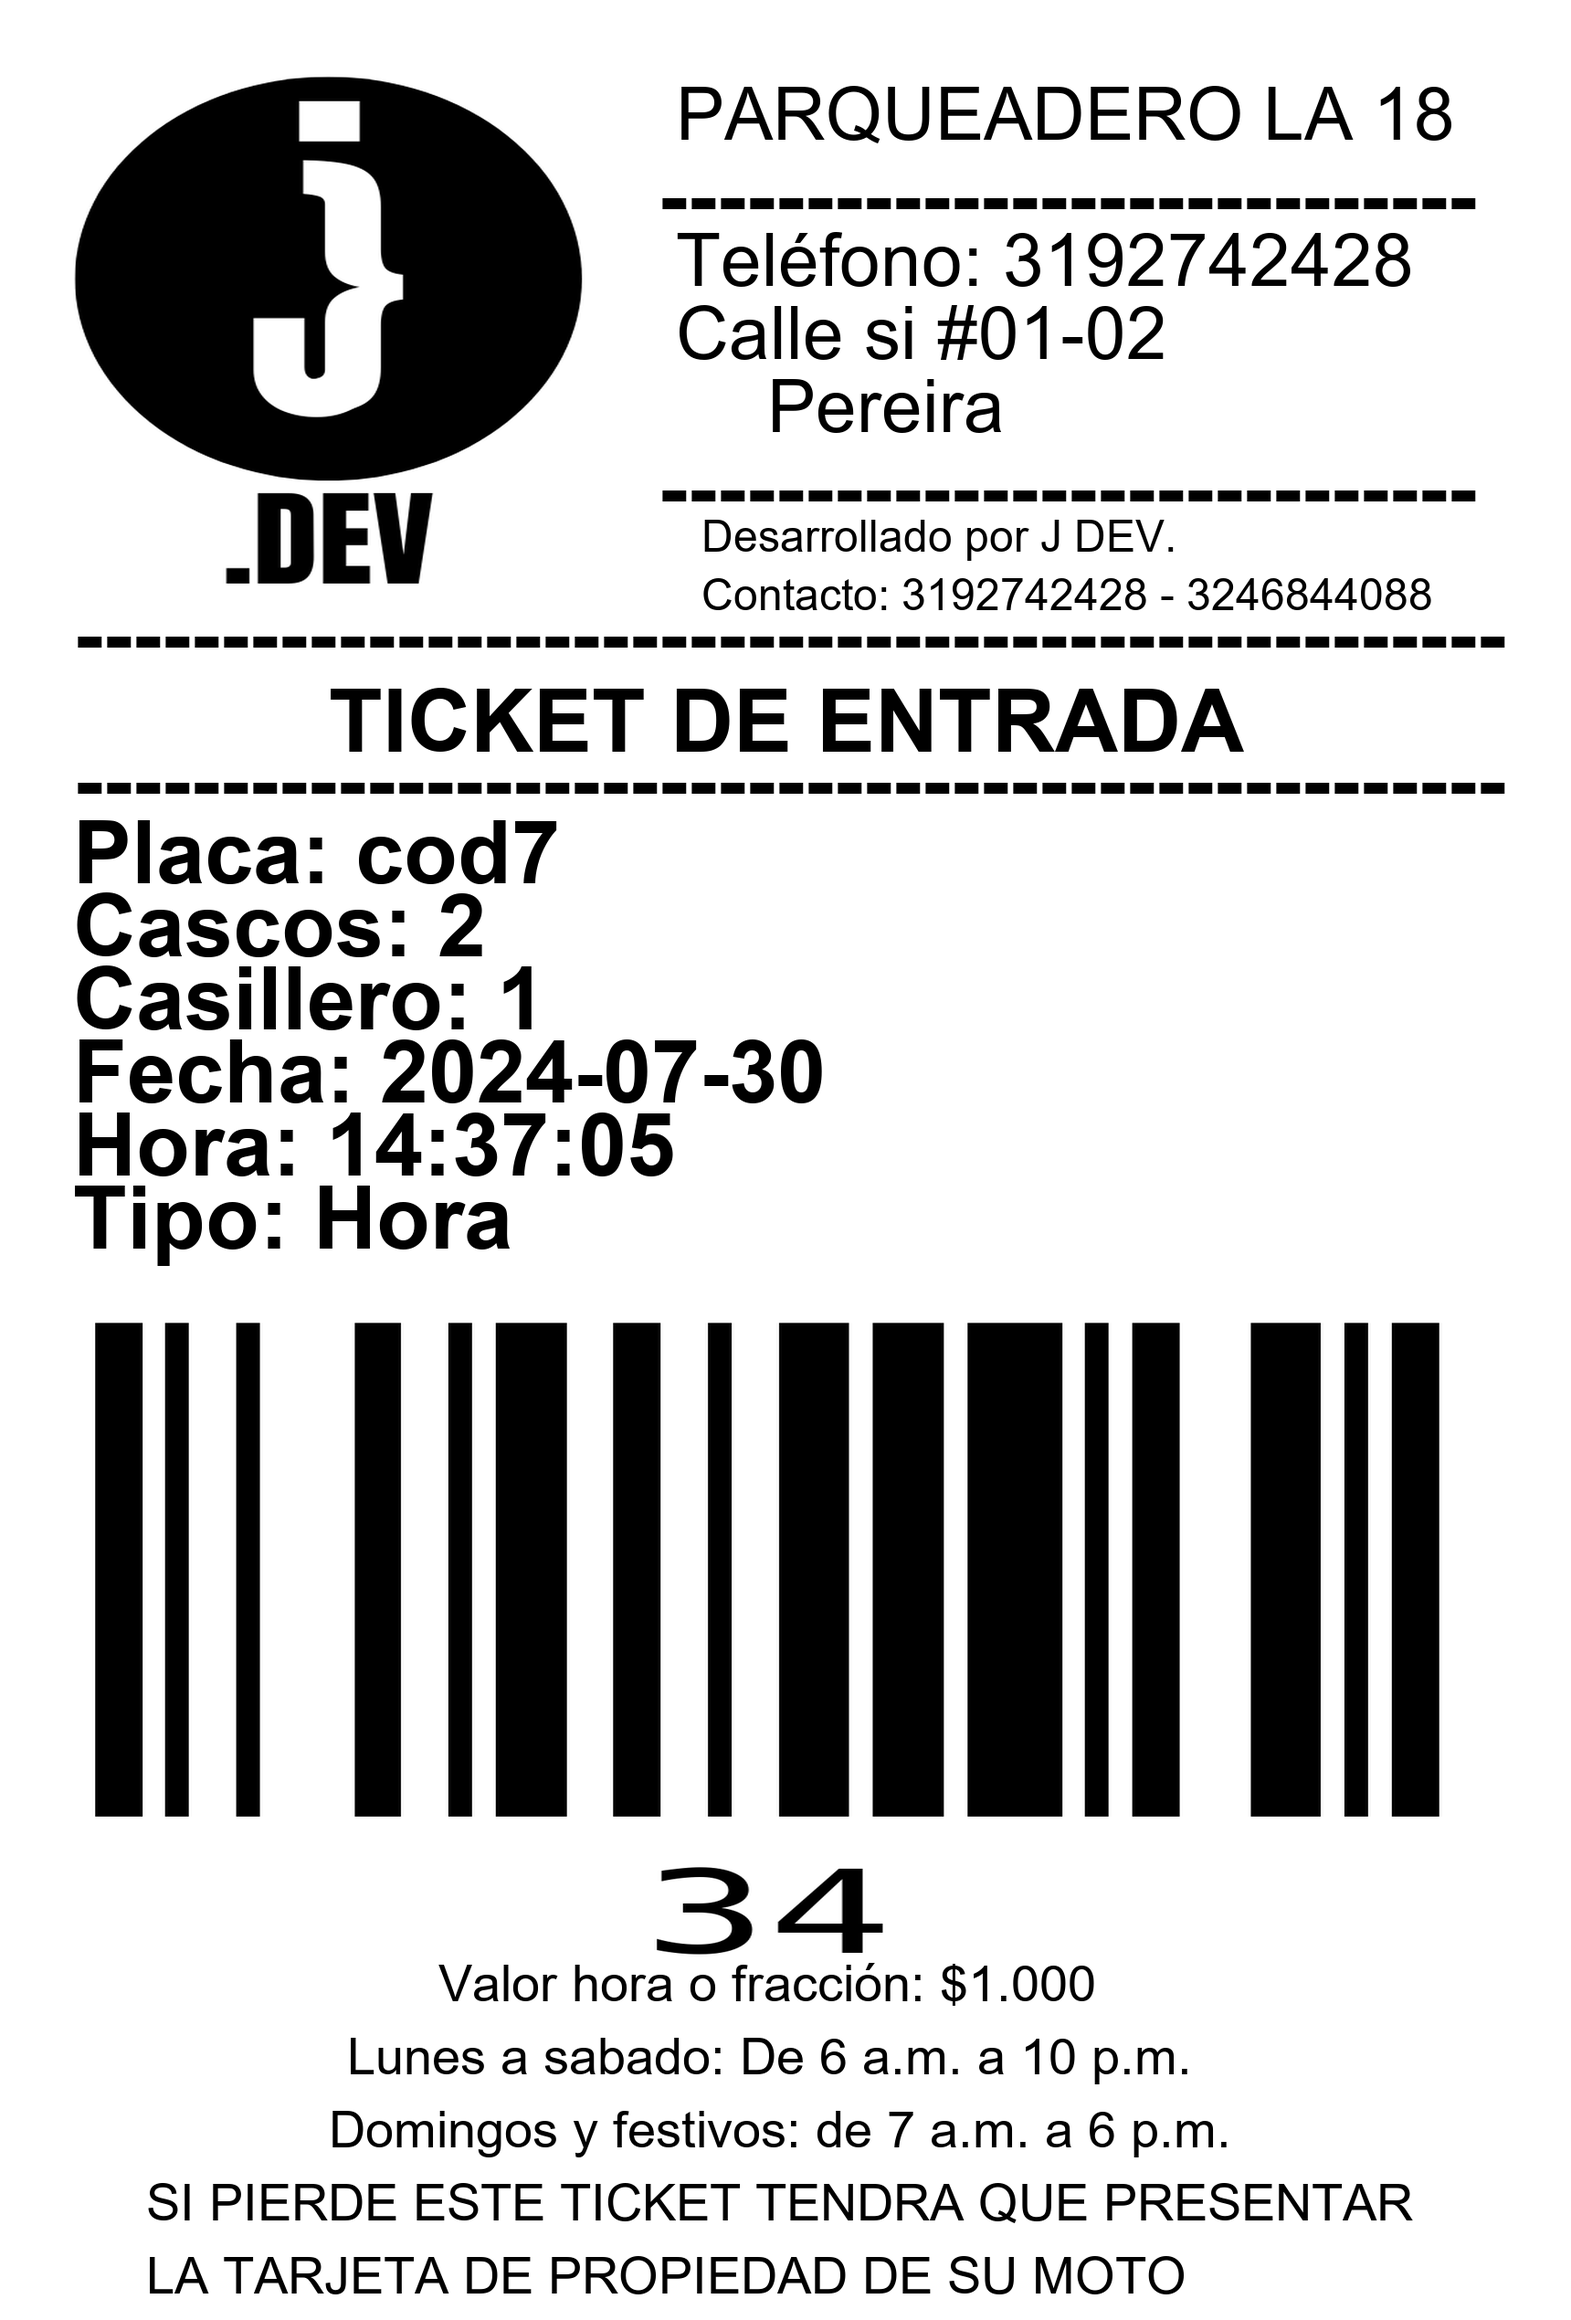
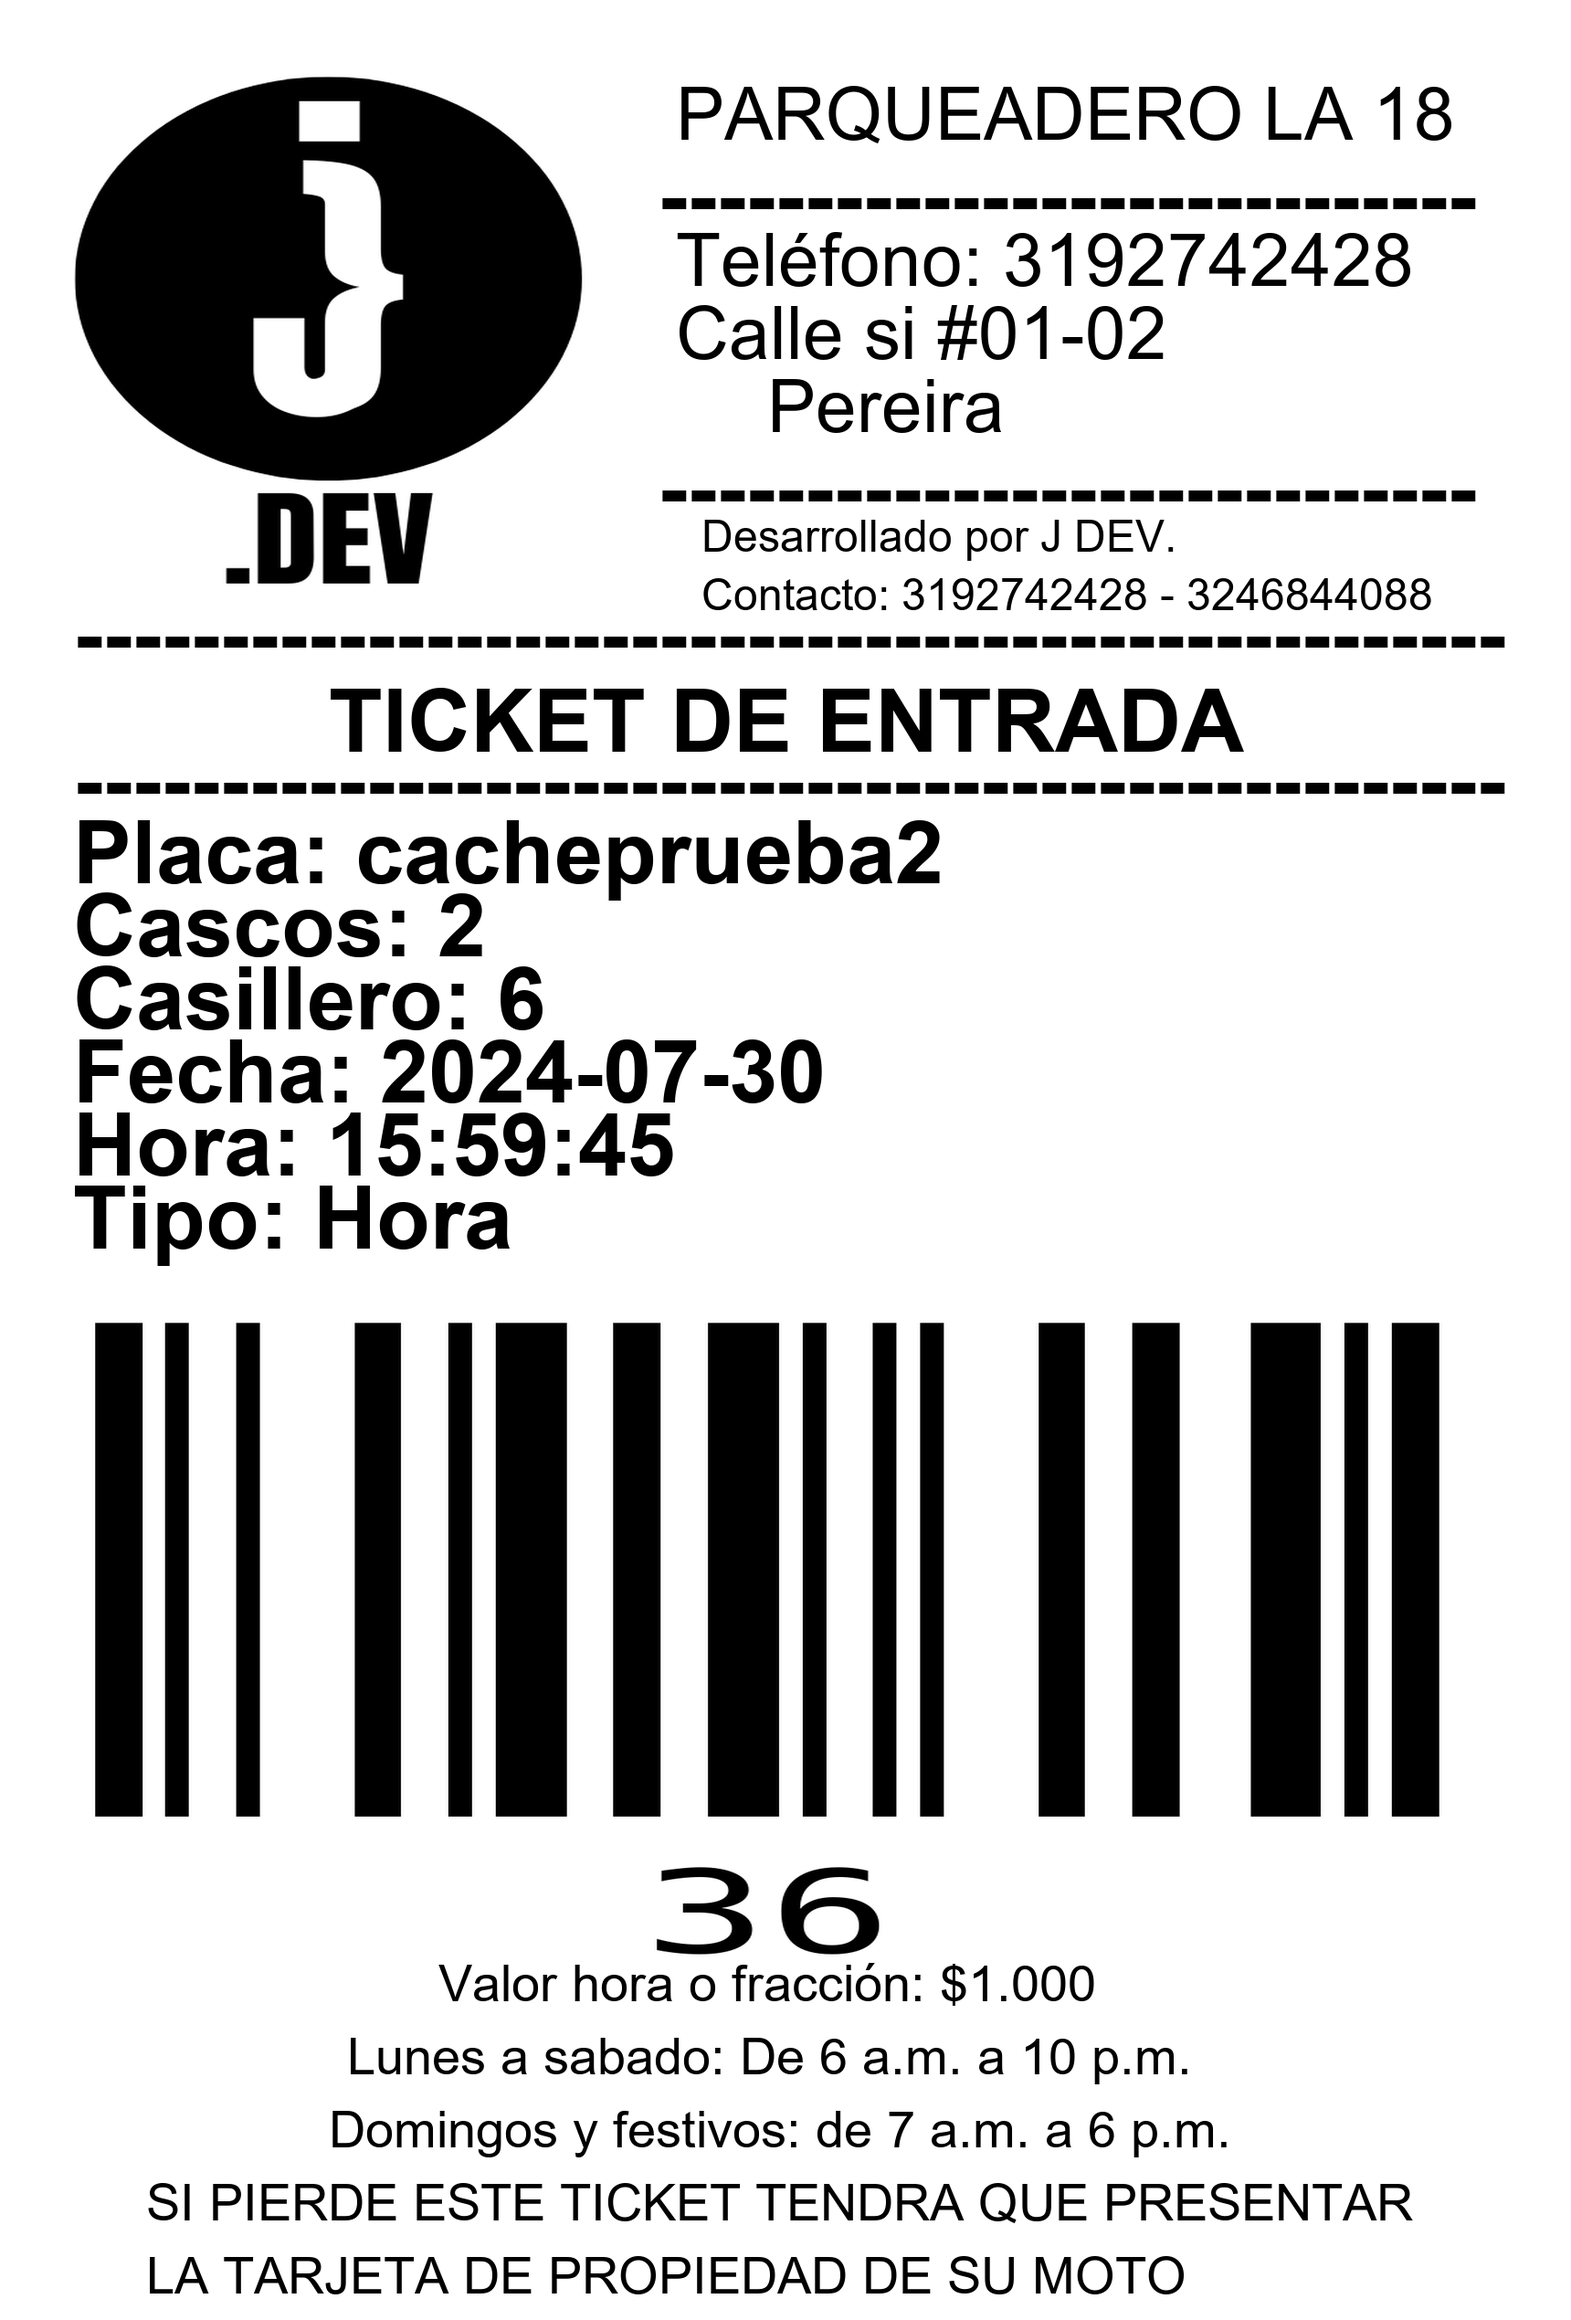
Se condiguró la actualizacion de tablas y la validacion de casilleros en ingreso moto

Changed region(s): [[0.4622, 0.5598, 0.5855, 0.8398], [0.2465, 0.3421, 0.6163, 0.5287], [0.6163, 0.5598, 0.7087, 0.8087]]

diff --git a/pagina_Tickets.py b/pagina_Tickets.py
@@ -148,6 +148,10 @@ class PaginaTickets(QWidget):
         db_connection = DatabaseConnection.get_instance(DB_CONFIG)
         self.textbox_casillero.setText(str(db_connection.casilleroAsignado(1))),
         self.textbox_casillerosDis.setText(str(db_connection.casillerosDisponibles(1)))
+        if self.textbox_casillerosDis.text() == "0": #Si no hay casilleros disponibles desactivar el boton imprimir
+            self.botonImprimirRegistroMoto.setDisabled(True)
+        else:
+            self.botonImprimirRegistroMoto.setEnabled(True)
     def initUI(self):
         #----Paginas
         #Pagina del menú
@@ -418,8 +422,8 @@ class PaginaTickets(QWidget):
         layout_ticketsIngresoMotos.addWidget(self.textbox_casillerosDis, 5, 3, 1, 1,
                                 alignment=Qt.AlignCenter | Qt.AlignLeft)  # Alineamiento arriba y a la izquierda
         # Crea un boton para Imprimir
-        boton_imprimir = QPushButton('Imprimir', page_tickets)
-        boton_imprimir.setStyleSheet("""
+        self.botonImprimirRegistroMoto = QPushButton('Imprimir', page_tickets)
+        self.botonImprimirRegistroMoto.setStyleSheet("""
             QPushButton {
                 color: white; 
                 background-color: #222125; 
@@ -433,10 +437,10 @@ class PaginaTickets(QWidget):
                 border: 2px solid #555555;
             }
         """)
-        layout_ticketsIngresoMotos.addWidget(boton_imprimir, 6, 3, 1, 1,
+        layout_ticketsIngresoMotos.addWidget(self.botonImprimirRegistroMoto, 6, 3, 1, 1,
                                 alignment=Qt.AlignTop | Qt.AlignLeft)
         # Conectar el botón de imprimir a la función registrarMoto
-        boton_imprimir.clicked.connect(lambda: [
+        self.botonImprimirRegistroMoto.clicked.connect(lambda: [
             db_connection.registrarMoto(
             textbox_placa.text(),
             combobox_cascos.currentText(),
@@ -1075,7 +1079,6 @@ class PaginaTickets(QWidget):
         layout_ticketsIngresarMensualidad.setRowStretch(4, 1)
         layout_ticketsIngresarMensualidad.setRowStretch(5, 1)
         layout_ticketsIngresarMensualidad.setRowStretch(6, 1)
- 
         #Se agrega el layout a la pagina
         page_ticketsIngresarMensualidad.setLayout(layout_ticketsIngresarMensualidad)
         #Se agrega al stack
@@ -1124,7 +1127,7 @@ class PaginaTickets(QWidget):
         self.botonBuscarRenovarMensualidad.setStyleSheet("color: White; background-color: #222125; font-size: 25px; border-radius: 15px; padding: 10px 20px;")
         layout_ticketsRenovarMensualidad.addWidget(self.botonBuscarRenovarMensualidad,1, 5, 2, 2,alignment=Qt.AlignLeft |Qt.AlignCenter)
         self.botonBuscarRenovarMensualidad.clicked.connect(lambda: [
-            self.cargarBusquedaRenovarMensualidad(),
+        self.cargarBusquedaRenovarMensualidad(),
     ])
         #Nombre
         titulo_Nombre = QLabel('NOMBRE')

diff --git a/DatabaseConnection.py b/DatabaseConnection.py
@@ -39,6 +39,7 @@ class DatabaseConnection:
                 database=self.config['database'],
                 port=int(self.config.get('port', 3306))
             )
+            self.connection.autocommit = True # se activa el auto commit
             if self.connection.is_connected():
                 print("Conexión a la base de datos MySQL establecida.")
         except Error as e:
@@ -53,6 +54,8 @@ class DatabaseConnection:
         self.open()
         cursor = self.connection.cursor()
         try:
+            # Añade 'SQL_NO_CACHE' a la consulta para evitar el uso de la caché
+            query = query.replace("SELECT", "SELECT SQL_NO_CACHE", 1)
             if params:
                 cursor.execute(query, params)
             else:
@@ -68,6 +71,8 @@ class DatabaseConnection:
         self.open()
         cursor = self.connection.cursor(dictionary=True)
         try:
+            # Añade 'SQL_NO_CACHE' a la consulta para evitar el uso de la caché
+            query = query.replace("SELECT", "SELECT SQL_NO_CACHE", 1)
             if params:
                 cursor.execute(query, params)
             else:
@@ -77,6 +82,9 @@ class DatabaseConnection:
         except Error as e:
             print(f"Error al ejecutar la consulta: {e}")
             return None
+        finally:
+            cursor.close()
+
     def obtenerUltimoRegistro(self):
         cursor = self.connection.cursor()
         try:

diff --git a/main.py b/main.py
@@ -31,7 +31,7 @@ class MiVentana(QWidget):
         self.Pagina_principal()
 
     def Pagina_principal(self):
-         # Crear un QLabel para mostrar la imagen
+        # Crear un QLabel para mostrar la imagen
         label_Logo = QLabel(self)
         
         # Crear un QPixmap con la ruta de la imagen
